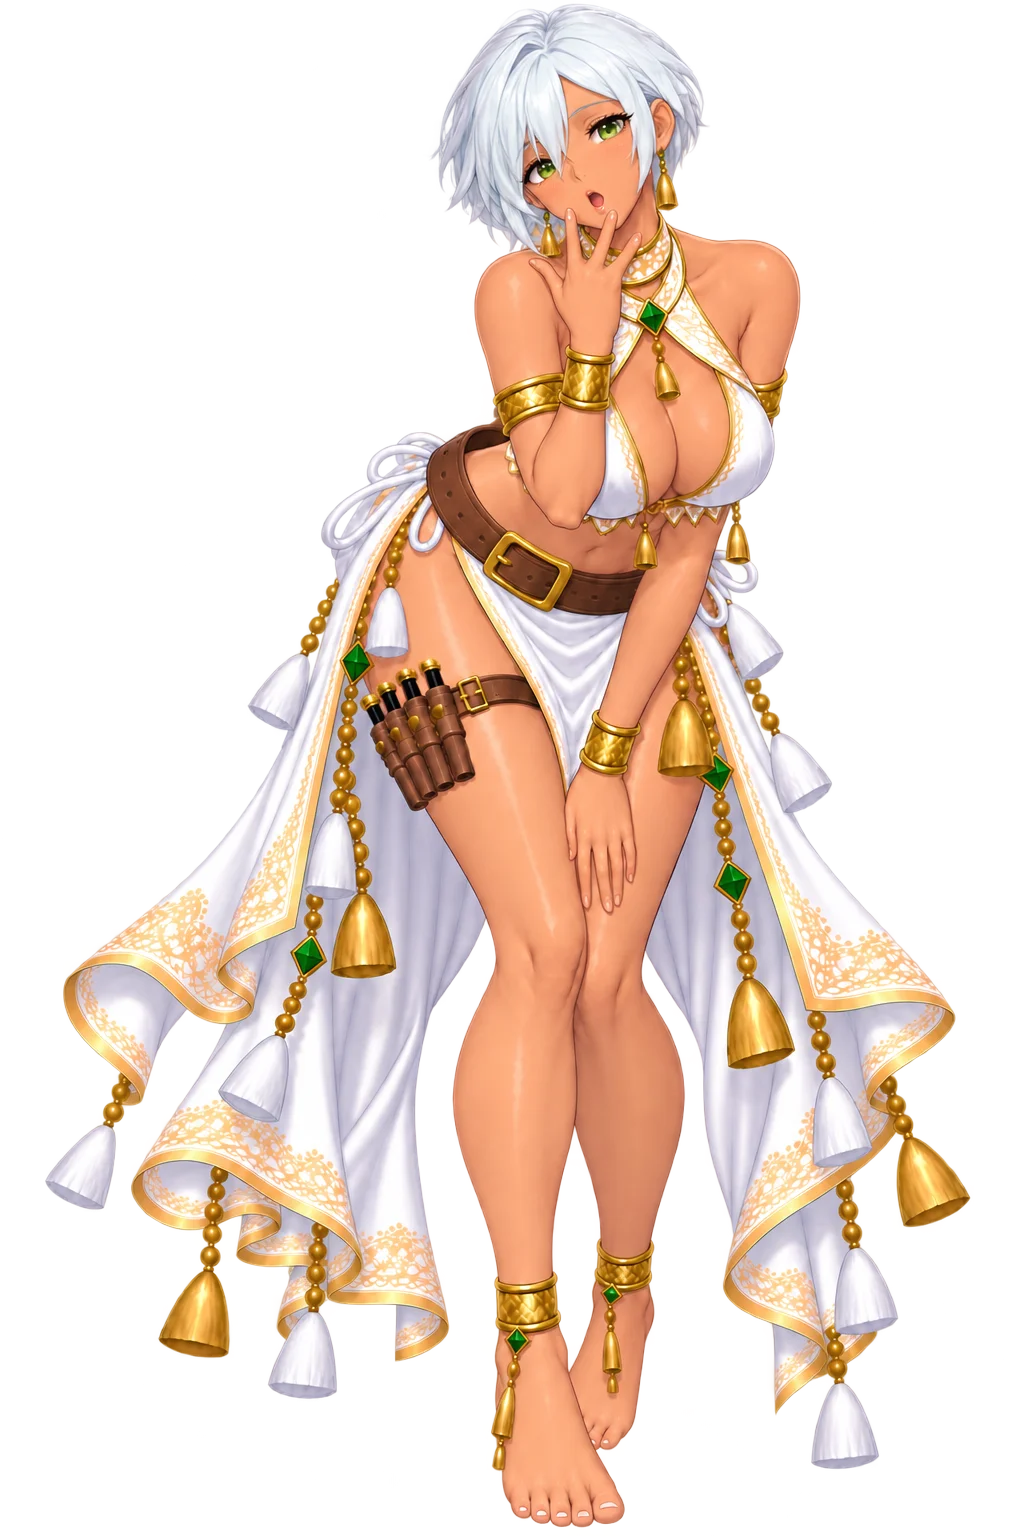
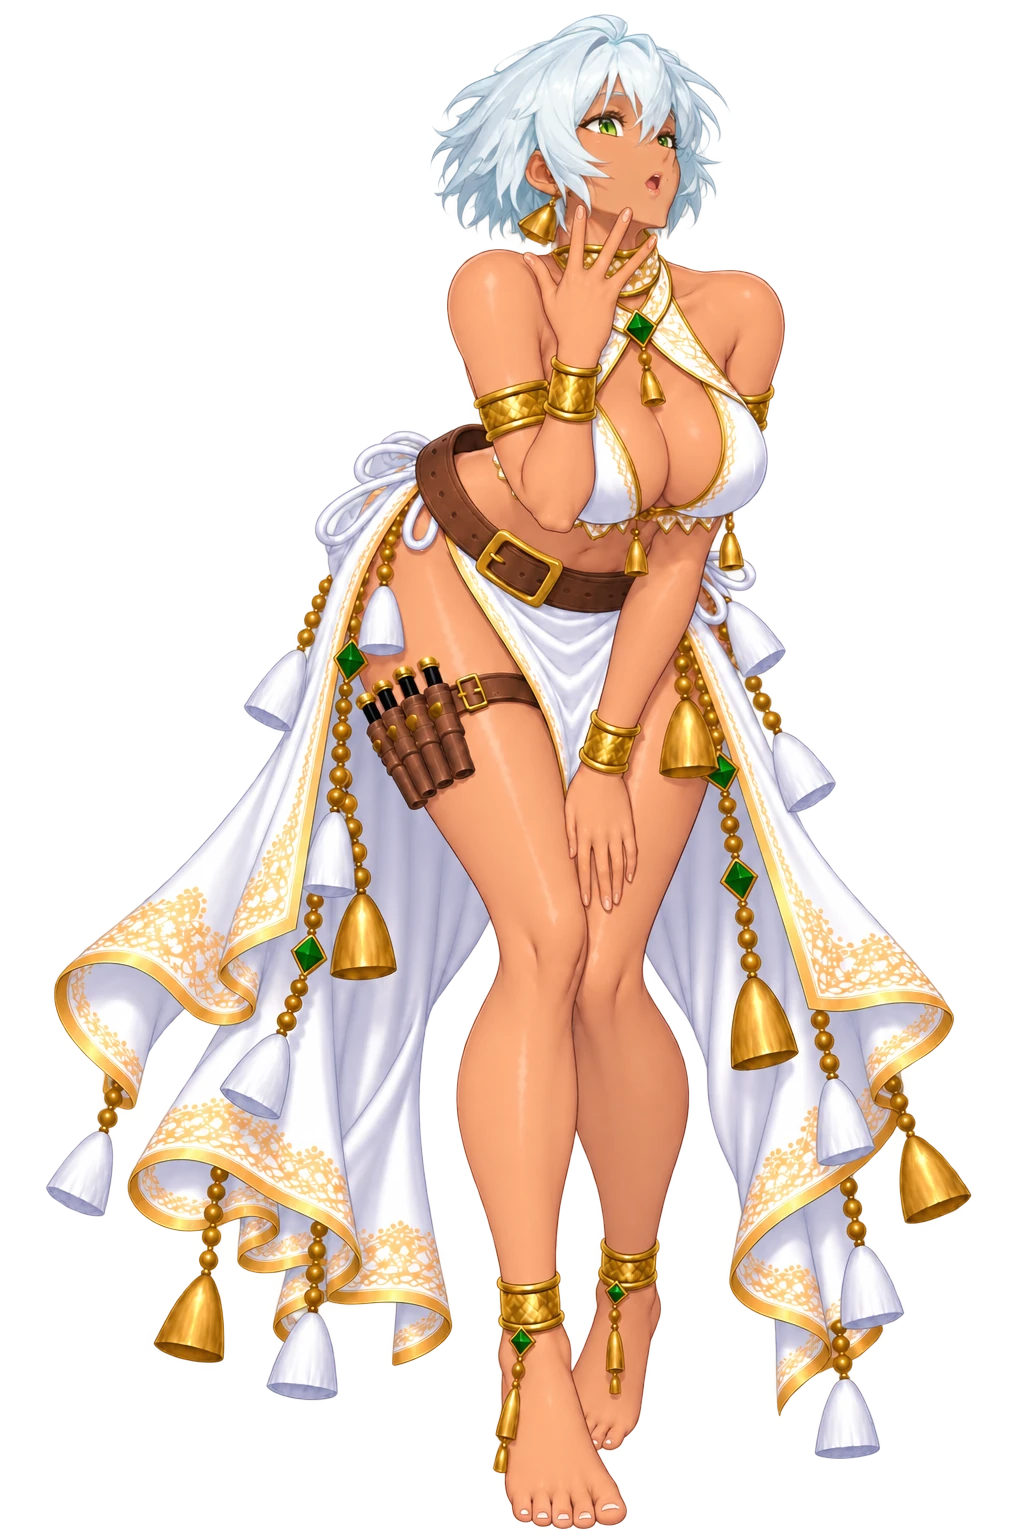
art(索拉娜): tease／amaze 過了 —— 60/62；破內容判定的正解是「A 只給頭」
> Ray：「彎腰露乳溝這件事 gpt 很不喜歡」→「只取帶刀圖的頭」
>      →「不是換頭，換臉部畫風及髮色」

A（全身帶刀設定稿）本身就是高風險的圖，而它只負責臉的畫法與髮色 ——
身體那一半是純粹的風險。裁成頭部特寫（resources/si/soranagpt/_head_ref.png）
＋ 提示詞改成「臉照第一張／其餘含服裝配件照第二張」之後，
tease 與 amaze 當場就過（在那之前各擋 5 次與 4 次）。

措辭實驗的完整紀錄寫在工單 §四，結論兩條：
  ① 描述「她穿什麼」降風險、描述「她在做什麼表情」升風險
  ② 真正的大頭是「上傳的圖有多露」，不是提示詞 —— 換 A 的效果遠大於換措辭

四項驗收過（色相 194.1/197.1／角α 0／近白 ≤0.21%／與 A 差 33.7/33.8）。

還差 2 張：laugh（累計 9 次，換 A 換措辭都救不了 —— 病灶在它自己那張圖）、
panic（不是被擋，是不給透明背景 ⇒ 該走 -1516 的本機 alpha）。

⚠ 程式端要接：speakers.js 共 16 條路徑跳 ?v=（14 張加 v=2、side/smile 改 v=3）。

diff --git a/resources/si/_sorana_r3_worklist.md b/resources/si/_sorana_r3_worklist.md
@@ -7,7 +7,7 @@
 
 同名覆蓋，不跳就是玩家繼續吃舊的那一份，**而且畫面上不會有任何錯誤訊息**（§5 的 -650）。
 
-| 要加 `?v=2`（現在沒有版號，12 張） | `battlecry` `shy` `sorry` `surprise` `talk` `think` `tire` `upset` `watch` `whisper` `remind` **`smirk`** |
+| 要加 `?v=2`（現在沒有版號，14 張） | `battlecry` `shy` `sorry` `surprise` `talk` `think` `tire` `upset` `watch` `whisper` `remind` `smirk` **`tease`** **`amaze`** |
 |---|---|
 | **要改成 `?v=3`（現在是 `?v=2`，2 張）** | `side` `smile` |
 
@@ -39,58 +39,71 @@
 眼睛形狀、金飾與鈴鐺全部對得上基底 A，沒有 -1556 那種吊眼／大圓眼的變形。
 透明像素佔 53~66%，是真 alpha 不是不透明底。
 
-## 四、⚠ 還沒做完的 4 張
+## 四、⚠ 還沒做完的 2 張 —— **`laugh` 與 `panic`**
 
-### ⭐ Ray 給的措辭破了「重災區」：**加服裝、不寫表情**（2026-09-22）
+### ⭐⭐⭐ 破內容判定的正解：**A 換成「只有頭的特寫」**（Ray，2026-09-22）
 
-> Ray：「laugh 的機會大點，smirk 跟 tease 是重災區，很難跑出來。
->   **加上提詞穿著民族獸獵服裝的女戰士　不要寫表情　表情嚴格鎖原圖**　開新 session 再跑一輪」
+> Ray：「彎腰露乳溝這件事 gpt 很不喜歡」→「**把帶刀圖給換成別的，只取帶刀圖的頭**」
+> →「**不是換頭，換臉部畫風及髮色**」
 
-三行之後只接這一句、**一個表情字都不寫**：
+**A（角色設定稿）整張全身送上去，本身就是一張高風險的圖** —— 而它**只負責臉的畫法與髮色**，
+身體那一大半是純粹的風險，沒有任何用處。裁成頭部特寫（`resources/si/soranagpt/_head_ref.png`，
+400×320，由 `soranagpt_1` 裁出）之後，提示詞改成：
 
 ```
-穿著民族獸獵服裝的女戰士
+第一張是臉部畫風參考，第二張是要重繪的圖。
+臉的畫法、五官、髮色 100% 照第一張；其餘（姿勢、表情、取景、服裝、配件）100% 照第二張。
+100%保留原角色細節，alpha背景。
 ```
 
-· **`smirk` 這樣就過了** —— 而它在那之前**連擋五次**（三種情緒方向詞都試過）。
-· ⚠⚠ 所以規律是：**描述「她穿什麼」會降風險，描述「她在做什麼表情」會升風險。**
-  情緒方向詞（自信／挑釁／頑皮…）是 -1503 那條的寫法，**對索拉娜這套服裝行不通**
-  —— 表情本來就由「照第二張」鎖住了，再寫一次只是多給分類器一個把柄。
-· ⚠ **`laugh` 反而是最硬的那一張**（Ray 原本估機會最大）：同一輪換了兩個新 session
-  都擋，其中一次的對話標題直接被歸成「人體藝術」。**機率不能用直覺估。**
+**⇒ `tease` 與 `amaze` 當場就過了**，而這兩張在那之前**各擋了 5 次與 4 次**
+（情緒方向詞、服裝方向詞、換 session 全試過）。
 
-| 鍵 | 累計試了幾次 | 最後一次的結果 |
+⚠⚠ **服裝改由 B 提供**，所以提示詞裡要明寫「服裝、配件照第二張」——
+A 已經沒有身體了，不補這一句它會自己發明衣服。
+
+### ⚠ 措辭實驗的完整紀錄（不要重跑一次）
+
+| 方向詞 | 對哪幾張有效 |
+|---|---|
+| 情緒（自信／挑釁／頑皮／驚訝／開朗…） | **全部無效** |
+| **穿著民族獸獵服裝的女戰士** | `smirk` ✔（連擋五次之後過的） |
+| 健康的泳裝女郎 | `laugh` ✘ |
+| 優雅的白色晚禮服 | `laugh` ✘ ／ `amaze` ✘ |
+| **改用頭部特寫當 A**（不寫任何方向詞） | **`tease` ✔ ／ `amaze` ✔ ／ `laugh` ✘** |
+
+⇒ **規律**：① 描述「她穿什麼」降風險、描述「她在做什麼表情」升風險
+（表情本來就由「照第二張」鎖住，再寫一次只是多給分類器一個把柄）
+② **真正的大頭是「上傳的圖有多露」**，不是提示詞 —— 換掉 A 的效果遠大於換任何措辭。
+
+| 鍵 | 累計試了幾次 | 狀況 |
 |---|---|---|
-| `laugh` | **5** | 擋（新措辭 ×2、新 session ×2 都擋） |
-| `amaze` | **4** | 擋（新措辭 ×1） |
-| `tease` | **5** | 擋（新措辭 ×1） |
-| `panic` | **3** | **沒有被擋**，但角落 alpha 246~252 ＝ 它自己畫了背景 |
+| **`laugh`** | **9** | 三種方向詞 ＋ 頭部特寫 ＋ 五個新 session 全擋。**病灶在 B 自己**（彎腰露乳溝）—— 換 A、換措辭都救不了 |
+| **`panic`** | **3** | **沒有被擋**，但角落 alpha 246~252 ＝ 它自己畫了背景 |
 
-⚠⚠ **`panic` 與另外三張是兩種病**：那三張是**內容判定**（連圖都沒有）；
-`panic` 是**不給透明背景**（兩種「要透明」的寫法都無效）。
-⇒ `panic` 該走憲法 -1516 的**本機 alpha**（`tools/si_matting.py` ＋ `matting_eval.py`
-的四項門檻），**這台機器還沒建 `.venv-matting`**（建法在憲法 §5）。
+⚠⚠ **這兩張是兩種病**：`laugh` 是**內容判定**（連圖都沒有）；
+`panic` 是**不給透明背景**（兩種「要透明」的寫法都無效）
+⇒ `panic` 該走憲法 -1516 的**本機 alpha**（`tools/si_matting.py`），**這台還沒建 `.venv-matting`**。
 
-**⇒ 索拉娜 62 張的總進度：44 ＋ 14 ＝ 58 張已重製，還差 4 張。**
+**⇒ 索拉娜 62 張的總進度：44 ＋ 16 ＝ 60 張已重製，還差 2 張。**
 
-⚠⚠⚠ **這四張要不要繼續是 Ray 的決定**：它們**已經接進腳本**，
-「換掉那一張」等於改掉那幾拍的演出。三條路：
-1. **留著舊圖**（畫面不會壞，只是那幾張還是舊臉模）
-2. **換一個姿勢重畫**（演出會變，取景要重量）
-3. **`panic` 單獨走本機 alpha**（先建 `.venv-matting`）
+⚠⚠⚠ **`laugh` 要不要繼續是 Ray 的決定**：它已經接進腳本，
+「換掉那一張」等於改掉那一拍的演出。三條路：
+1. **留著舊圖**（畫面不會壞，只是那一張還是舊臉模）
+2. **換一個不彎腰的姿勢重畫**（演出會變，取景要重量）
+3. 走 `_ext_worklist.md` §六的**合成備案**（只換頭）—— 憲法把它列為
+   「內容判定真的擋死」時的備案，`laugh` 正好是那個情況
 
 ## 五、⚠ 這一輪踩到的坑（下一個人先看這裡）
 
 1. **`_sorana_check.py` 的 `BASE` 指到 `resources/_originals/SI_sorana_base/soranagpt_1.png`，
    而 `_originals` 沒進版控** —— 換一台機器就跑不動。
-   ⇒ 版控裡的那一份在 **`resources/si/soranagpt/`**（四張 UUID 檔名的 PNG，就是
-   `soranagpt_1~4`，依檔名時間排序）。複製回去就好。
+   ⇒ 版控裡的那一份在 **`resources/si/soranagpt/`**（四張 UUID 檔名 ＝ `soranagpt_1~4`，
+   依檔名時間排序）。複製回去就好。**頭部特寫 `_head_ref.png` 也在那個資料夾（已進版控）。**
 2. **`javascript_tool` 有 45 秒上限** —— `__send()` 自己就睡 20 秒，再串一個
    25 秒的等待就會 timeout，**而且送出其實已經成功了**，只是回傳被砍掉。
-   差一點誤判成「沒送出去」而重送（那會白燒一次額度）。
    ⇒ `__send` 與 `__grab` 要分成兩次呼叫，中間用 browser_batch 的 `wait` 湊時間。
 3. **換一個新對話之後 `ref` 會失效，而且同一個編號會被重新指派給別的元素**
-   ⇒ 每開一個新串就重新 `find` 一次檔案輸入欄，不要沿用上一串的編號。
+   ⇒ 每開一個新串就重新 `find` 一次檔案輸入欄。
 4. ⚠⚠ **判「被擋了沒」一律看 `newImageTurns`（那一回合的讚鈕），不要看頁面文字**
-   —— 拒絕訊息會留在頁尾不消失（憲法 -1503 就寫過）。`_grab.js` 的 `__state()`
-   已經是唯一計算點，照用。
+   —— 拒絕訊息會留在頁尾不消失（憲法 -1503 就寫過）。`_grab.js` 的 `__state()` 是唯一計算點。
